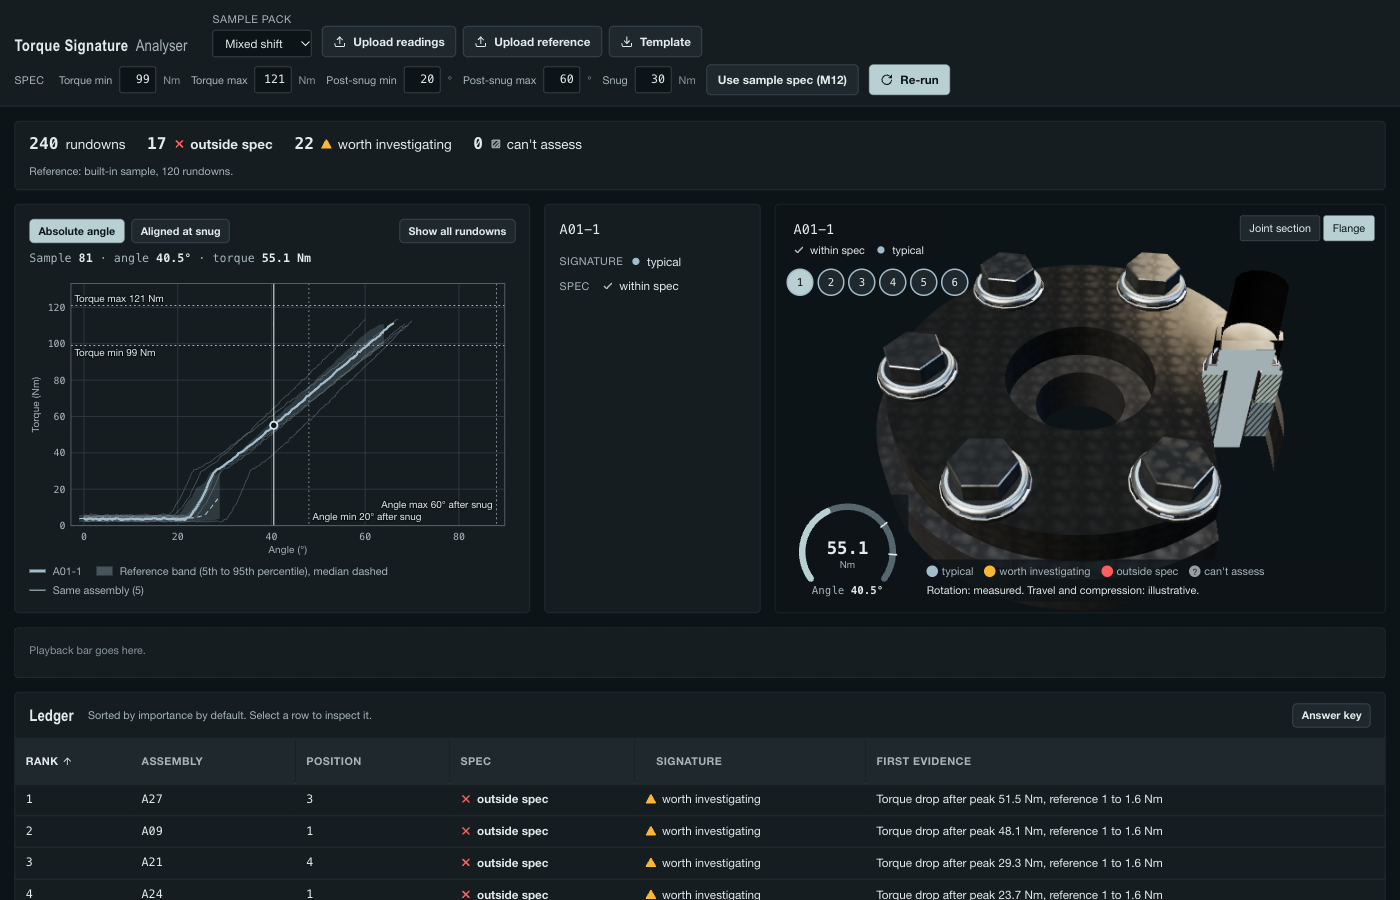
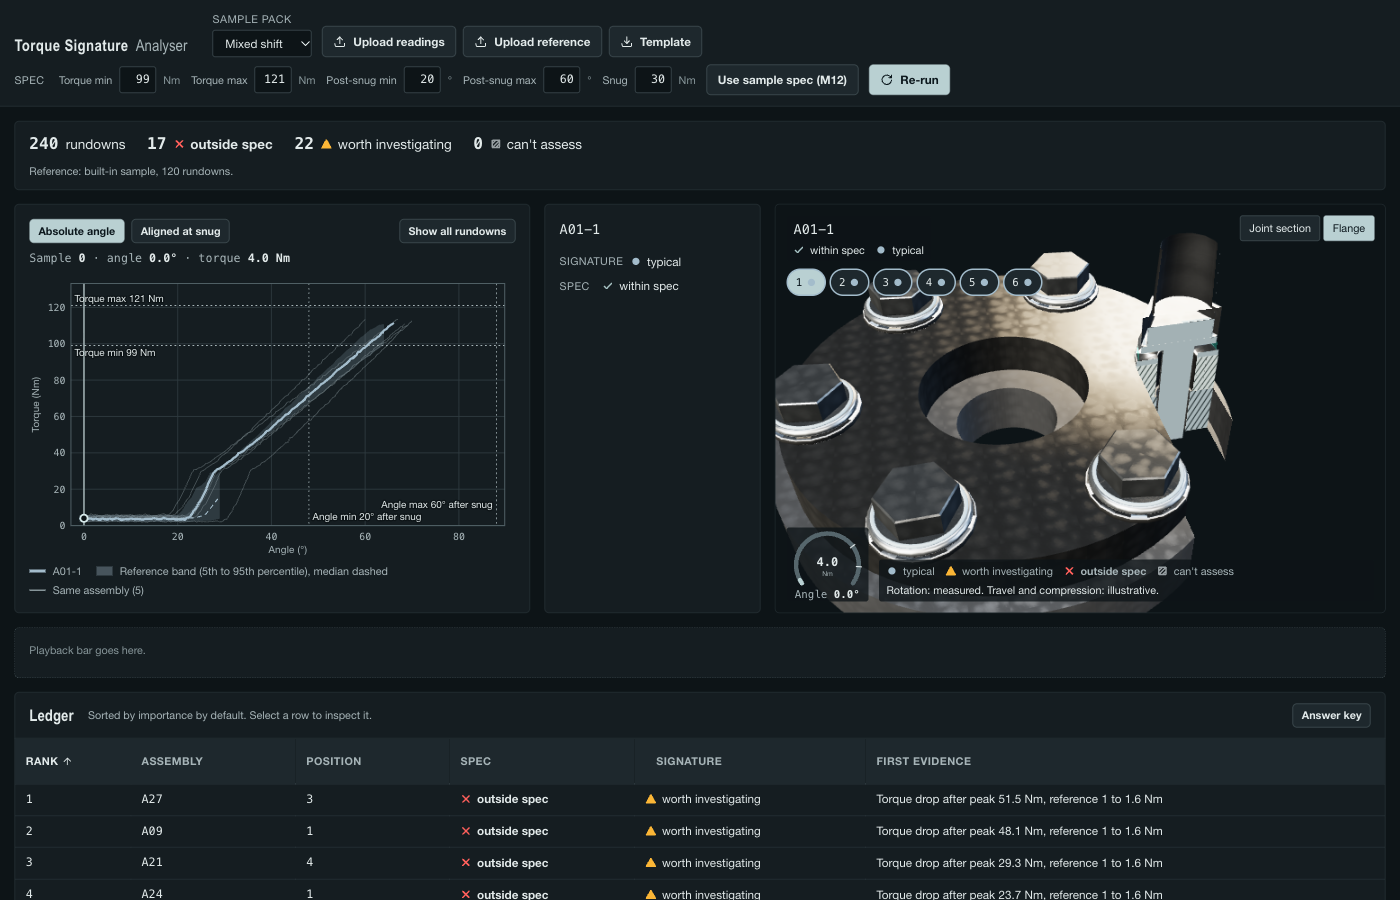
fix(torque): R15 visible gap, section composition, reduced motion, status glyphs

Changed region(s): [[0.5529, 0.2489, 0.9214, 0.6844], [0.0921, 0.28, 0.215, 0.3111]]

diff --git a/apps/torque-signature-analyser/web/src/scene/JointScene.jsx b/apps/torque-signature-analyser/web/src/scene/JointScene.jsx
@@ -7,7 +7,23 @@ import Flange, { FLANGE, slotAngle, slotPosition } from './Flange.jsx';
 import CameraRig from './CameraRig.jsx';
 import Overlay from './Overlay.jsx';
 import { createMaterials, tokenColor } from './materials.js';
-import { boltSlots, jointPose, statusKind, travelAt } from './kinematics.js';
+import { boltSlots, jointPose, statusKind } from './kinematics.js';
+
+// R15: starting head-to-washer gap is 30% of the head height; compression cap is 10% of the top plate.
+const GAP_MAX = 0.3 * 0.95;
+const MAX_COMPRESSION = 0.1 * FLANGE.topT;
+
+function useReducedMotion() {
+  const [reduced, setReduced] = useState(() => window.matchMedia?.('(prefers-reduced-motion: reduce)').matches ?? false);
+  useEffect(() => {
+    const mq = window.matchMedia?.('(prefers-reduced-motion: reduce)');
+    if (!mq) return undefined;
+    const on = () => setReduced(mq.matches);
+    mq.addEventListener('change', on);
+    return () => mq.removeEventListener('change', on);
+  }, []);
+  return reduced;
+}
 
 function hasWebGL() {
   try {
@@ -31,12 +47,13 @@ function cutPlanes(slot) {
   return { single: [A], box: [A, B1, B2] };
 }
 
-function Scene({ focus, siblings, selected, pose, snugAngle, preset, detail, lit, reducedMotion, onSelect }) {
+function Scene({ focus, siblings, selected, pose, preset, detail, lit, reducedMotion, onSelect }) {
   const { invalidate, gl } = useThree();
   const materials = useMemo(() => createMaterials(cutPlanes(focus)), [focus]);
   const bg = useMemo(() => tokenColor('--color-paper', '#15191c'), []);
   useEffect(() => () => materials.dispose(), [materials]);
   useEffect(() => { gl.localClippingEnabled = true; invalidate(); }, [gl, invalidate]);
+  useEffect(() => () => { document.body.style.cursor = ''; }, []);
   useEffect(() => {
     materials.socket.emissive.copy(lit ? materials.motion : new THREE.Color(0, 0, 0));
     materials.socket.emissiveIntensity = lit ? 0.35 : 0;
@@ -45,7 +62,7 @@ function Scene({ focus, siblings, selected, pose, snugAngle, preset, detail, lit
 
   const compression = pose.compression;
   const topY = FLANGE.baseT + FLANGE.topT - compression;
-  const gapUnits = snugAngle == null ? 0 : (travelAt(snugAngle, snugAngle) - pose.travel) / 10;
+  const gapUnits = pose.gap * GAP_MAX;
   const pick = (id) => (e) => {
     e.stopPropagation();
     if (e.delta < 4) onSelect(id);
@@ -55,20 +72,21 @@ function Scene({ focus, siblings, selected, pose, snugAngle, preset, detail, lit
   return (
     <>
       <color attach="background" args={[bg]} />
-      <ambientLight intensity={0.35} />
+      <ambientLight intensity={0.5} />
       <directionalLight position={[-6, 12, 8]} intensity={1.6} color="#fff2df" />
-      <directionalLight position={[8, 5, -4]} intensity={0.5} color="#aec7df" />
+      <directionalLight position={[8, 5, -4]} intensity={0.9} color="#aec7df" />
+      <directionalLight position={[3, 6, 12]} intensity={1.2} color="#fff6ea" />
       <Environment resolution={256} frames={1}>
         <color attach="background" args={['#0b0d0e']} />
-        <Lightformer form="rect" intensity={9} position={[-5, 4.2, 4.8]} scale={[5.2, 3.9]} color="#fff4e2" />
-        <Lightformer form="rect" intensity={3} position={[6, 1.6, 2]} scale={[3, 5.4]} color="#b4d0ee" />
-        <Lightformer form="rect" intensity={4} position={[2.5, 2.2, -5.5]} scale={[2, 4.6]} color="#ffe2b8" />
-        <Lightformer form="rect" intensity={3} position={[0, 6, 0]} scale={[7.5, 2.2]} color="#e4ecf4" />
+        <Lightformer form="rect" intensity={14} position={[-5, 4.2, 4.8]} scale={[5.2, 3.9]} color="#fff4e2" />
+        <Lightformer form="rect" intensity={5} position={[6, 1.6, 2]} scale={[3, 5.4]} color="#b4d0ee" />
+        <Lightformer form="rect" intensity={7} position={[2.5, 2.2, -5.5]} scale={[2, 4.6]} color="#ffe2b8" />
+        <Lightformer form="rect" intensity={5} position={[0, 6, 0]} scale={[7.5, 2.2]} color="#e4ecf4" />
       </Environment>
 
       <Flange materials={materials} squash={compression} focus={focus} />
 
-      {siblings.map(({ slot, rundown, kind }) => {
+      {(preset === 'flange' || focus == null) && siblings.map(({ slot, rundown, kind }) => {
         const last = (rundown.curve?.angle?.[rundown.curve.angle.length - 1] ?? 0) * (Math.PI / 180);
         return (
           <group key={rundown.id} position={slotPosition(slot).setY(topY + WASHER.thickness)} rotation={[0, -slotAngle(slot), 0]}>
@@ -81,6 +99,11 @@ function Scene({ focus, siblings, selected, pose, snugAngle, preset, detail, lit
       {focus != null && selected && (
         <group position={slotPosition(focus).setY(topY)} rotation={[0, -slotAngle(focus), 0]}>
           <Washer materials={materials} cut detail={detail} />
+          {gapUnits > 0.01 && (
+            <mesh material={materials.gapMat} position={[0, WASHER.thickness + gapUnits / 2, 0]}>
+              <cylinderGeometry args={[1.3, 1.3, gapUnits, 40, 1, true]} />
+            </mesh>
+          )}
           <group position={[0, WASHER.thickness + gapUnits, 0]}>
             <Bolt materials={materials} status={statusKind(selected)} rotation={-pose.rotationRad} cut detail={detail} showSocket lit={lit} />
           </group>
@@ -97,7 +120,7 @@ function JointView({ result, selected, cursor, onSelect }) {
   const [compact, setCompact] = useState(false);
   const [preset, setPreset] = useState('section');
   const [lit, setLit] = useState(false);
-  const reducedMotion = useMemo(() => window.matchMedia?.('(prefers-reduced-motion: reduce)').matches ?? false, []);
+  const reducedMotion = useReducedMotion();
 
   useEffect(() => {
     const el = box.current;
@@ -110,12 +133,14 @@ function JointView({ result, selected, cursor, onSelect }) {
   // Sea-glass accent only while the cursor is advancing.
   const prev = useRef(cursor);
   useEffect(() => {
-    if (prev.current === cursor) return undefined;
+    const advanced = cursor > prev.current;
     prev.current = cursor;
+    if (reducedMotion) { setLit(false); return undefined; }
+    if (!advanced) return undefined;
     setLit(true);
     const t = setTimeout(() => setLit(false), 220);
     return () => clearTimeout(t);
-  }, [cursor]);
+  }, [cursor, reducedMotion]);
 
   const rundowns = result?.rundowns ?? [];
   const { slots, overflow, focus } = useMemo(() => {
@@ -129,7 +154,7 @@ function JointView({ result, selected, cursor, onSelect }) {
   const torqueMax = spec?.torque_max_nm ?? Math.max(1, ...rundowns.map((r) => r.features?.final_torque ?? 0));
   const snug = selected?.features?.snug_angle ?? null;
   const pose = useMemo(
-    () => jointPose(selected?.curve, cursor, snug, { torqueMax, maxCompression: 0.04 * FLANGE.topT }),
+    () => jointPose(selected?.curve, cursor, snug, { torqueMax, maxCompression: MAX_COMPRESSION }),
     [selected, cursor, snug, torqueMax],
   );
   const detail = !compact && preset === 'section' && focus != null ? 'full' : 'simple';
@@ -149,7 +174,6 @@ function JointView({ result, selected, cursor, onSelect }) {
           siblings={slots.filter((s) => s.slot !== focus)}
           selected={selected}
           pose={pose}
-          snugAngle={snug}
           preset={preset}
           detail={detail}
           lit={lit}

diff --git a/apps/torque-signature-analyser/web/src/scene/materials.js b/apps/torque-signature-analyser/web/src/scene/materials.js
@@ -18,7 +18,10 @@ export function tokenColor(name, fallback = '#888888') {
 }
 
 /** Roughness variation (MengTo metal step 4): smears, two scratch angles and fine grain. Green channel is read. */
+let roughCache = null;
+let hatchCache = null;
 function roughnessTexture(seed = 7, size = 256) {
+  if (roughCache) return roughCache;
   const c = document.createElement('canvas');
   c.width = c.height = size;
   const g = c.getContext('2d');
@@ -52,6 +55,7 @@ function roughnessTexture(seed = 7, size = 256) {
   g.putImageData(img, 0, 0);
   const t = new THREE.CanvasTexture(c);
   t.wrapS = t.wrapT = THREE.RepeatWrapping;
+  roughCache = t;
   return t;
 }
 
@@ -83,8 +87,12 @@ const F0 = (r, g, b) => new THREE.Color().setRGB(r, g, b, THREE.LinearSRGBColorS
 export function createMaterials(cut) {
   const rough = roughnessTexture();
   const steelF0 = F0(0.56, 0.57, 0.58);
-  const hatch = hatchTexture(tokenColor('--color-alu', '#bbb').multiplyScalar(0.7), tokenColor('--color-surface', '#222'));
-  const hatchDark = hatchTexture(tokenColor('--color-steel', '#99a').multiplyScalar(0.45), tokenColor('--color-surface', '#222'));
+  hatchCache ??= {
+    top: hatchTexture(tokenColor('--color-alu', '#bbb').multiplyScalar(0.8), tokenColor('--color-surface', '#222')),
+    base: hatchTexture(tokenColor('--color-steel', '#99a').multiplyScalar(0.6), tokenColor('--color-surface', '#222')),
+  };
+  const hatch = hatchCache.top;
+  const hatchDark = hatchCache.base;
   const single = cut?.single ?? [];
   const box = cut?.box ?? [];
 
@@ -94,15 +102,17 @@ export function createMaterials(cut) {
   const washer = new THREE.MeshPhysicalMaterial({ color: steelF0, metalness: 1, roughness: 0.3, roughnessMap: rough, anisotropy: 0.8, clippingPlanes: single });
   const washerFree = washer.clone();
   washerFree.clippingPlanes = null;
-  const socket = new THREE.MeshStandardMaterial({ color: F0(0.3, 0.31, 0.33), metalness: 1, roughness: 0.22, roughnessMap: rough, side: THREE.DoubleSide, clippingPlanes: single, emissive: new THREE.Color(0, 0, 0) });
+  const socket = new THREE.MeshStandardMaterial({ color: F0(0.62, 0.64, 0.67), metalness: 1, roughness: 0.3, roughnessMap: rough, side: THREE.DoubleSide, clippingPlanes: single, emissive: new THREE.Color(0, 0, 0) });
   const plateTop = new THREE.MeshStandardMaterial({ color: steelF0, metalness: 1, roughness: 0.34, roughnessMap: rough, side: THREE.DoubleSide, clippingPlanes: box, clipIntersection: true });
-  const plateBase = new THREE.MeshStandardMaterial({ color: F0(0.24, 0.25, 0.27), metalness: 0.9, roughness: 0.62, roughnessMap: rough, side: THREE.DoubleSide, clippingPlanes: box, clipIntersection: true });
-  const hub = new THREE.MeshStandardMaterial({ color: F0(0.2, 0.21, 0.23), metalness: 0.9, roughness: 0.7, roughnessMap: rough });
+  const plateBase = new THREE.MeshStandardMaterial({ color: F0(0.42, 0.44, 0.47), metalness: 0.9, roughness: 0.55, roughnessMap: rough, side: THREE.DoubleSide, clippingPlanes: box, clipIntersection: true });
+  const hub = new THREE.MeshStandardMaterial({ color: F0(0.34, 0.35, 0.38), metalness: 0.9, roughness: 0.6, roughnessMap: rough });
   const capTop = new THREE.MeshStandardMaterial({ map: hatch, metalness: 0, roughness: 0.9 });
   const capBase = new THREE.MeshStandardMaterial({ map: hatchDark, metalness: 0, roughness: 0.9 });
-  const capBolt = new THREE.MeshStandardMaterial({ color: tokenColor('--color-steel', '#aab'), metalness: 0, roughness: 0.8 });
+  const capBolt = new THREE.MeshStandardMaterial({ color: tokenColor('--color-steel', '#aab').multiplyScalar(0.55), metalness: 0, roughness: 0.8 });
   const edge = new THREE.MeshBasicMaterial({ color: tokenColor('--color-motion', '#3df5d2'), toneMapped: false, transparent: true, opacity: 0.9, clippingPlanes: single });
 
+  const gapMat = new THREE.MeshBasicMaterial({ color: tokenColor('--color-motion', '#3df5d2'), transparent: true, opacity: 0.3, depthWrite: false, side: THREE.DoubleSide, toneMapped: false, clippingPlanes: single });
+  const mark = new THREE.MeshBasicMaterial({ color: tokenColor('--color-text', '#eee'), toneMapped: false, clippingPlanes: single });
   const status = {
     typical: tokenColor('--color-steel', '#99a'),
     investigate: tokenColor('--color-amber', '#e0a030'),
@@ -113,6 +123,6 @@ export function createMaterials(cut) {
   const ringCut = Object.fromEntries(Object.entries(ring).map(([k, m]) => { const c = m.clone(); c.clippingPlanes = single; return [k, c]; }));
   const motion = tokenColor('--color-motion', '#3df5d2');
 
-  const all = [zinc, zincFree, washer, washerFree, socket, plateTop, plateBase, hub, capTop, capBase, capBolt, edge, hatch, hatchDark, rough, ...Object.values(ring), ...Object.values(ringCut)];
-  return { zinc, zincFree, washer, washerFree, socket, plateTop, plateBase, hub, capTop, capBase, capBolt, edge, ring, ringCut, motion, dispose: () => all.forEach((m) => m.dispose()) };
+  const all = [zinc, zincFree, washer, washerFree, socket, plateTop, plateBase, hub, capTop, capBase, capBolt, edge, gapMat, mark, ...Object.values(ring), ...Object.values(ringCut)];
+  return { zinc, zincFree, washer, washerFree, socket, plateTop, plateBase, hub, capTop, capBase, capBolt, edge, gapMat, mark, ring, ringCut, motion, dispose: () => all.forEach((m) => m.dispose()) };
 }

diff --git a/apps/torque-signature-analyser/web/src/app.css b/apps/torque-signature-analyser/web/src/app.css
@@ -217,7 +217,7 @@ button, input, select { font: inherit; color: inherit; }
 .btn-mini:active { background: var(--color-surface); }
 .btn-mini[aria-pressed="true"] { background: var(--color-alu); color: var(--color-on-light); border-color: var(--color-alu); }
 .joint-slots { list-style: none; display: flex; gap: var(--space-2xs); padding: 0; margin: 0; }
-.slot-chip { font: inherit; font-size: var(--text-xs); font-family: var(--font-mono); width: 1.9rem; height: 1.9rem; border-radius: 50%; background: var(--color-surface-2); color: var(--color-text); border: 2px solid var(--color-steel); cursor: pointer; }
+.slot-chip { font: inherit; font-size: var(--text-xs); font-family: var(--font-mono); display: inline-flex; align-items: center; gap: 0.25rem; height: 1.9rem; padding: 0 0.55rem; border-radius: 1rem; background: var(--color-surface-2); color: var(--color-text); border: 2px solid var(--color-steel); cursor: pointer; }
 .slot-chip:hover { background: var(--color-surface-3); }
 .slot-chip[aria-pressed="true"] { background: var(--color-alu); color: var(--color-on-light); }
 .slot-chip-investigate { border-color: var(--color-amber); }
@@ -237,10 +237,12 @@ button, input, select { font: inherit; color: inherit; }
 .joint-legend-wrap { flex: 1; min-width: 12rem; display: grid; gap: var(--space-2xs); background: color-mix(in oklch, var(--color-paper) 78%, transparent); border-radius: var(--radius-sm); padding: var(--space-2xs) var(--space-xs); }
 .joint-legend { list-style: none; display: flex; flex-wrap: wrap; gap: var(--space-2xs) var(--space-sm); padding: 0; margin: 0; font-size: var(--text-xs); color: var(--color-muted); }
 .joint-legend li { display: inline-flex; align-items: center; gap: var(--space-2xs); }
-.sw { display: inline-grid; place-items: center; width: 0.8rem; height: 0.8rem; border-radius: 50%; font-style: normal; font-size: 0.6rem; color: var(--color-on-light); }
-.sw-typical { background: var(--color-steel); }
-.sw-investigate { background: var(--color-amber); }
-.sw-outside { background: var(--color-outside); }
-.sw-cant_assess { background: var(--color-hatch); }
 .joint-caption { margin: 0; font-size: var(--text-xs); color: var(--color-text); }
 .joint-fallback { margin: var(--space-md); padding: var(--space-lg); border: 1px solid var(--color-rule-strong); border-radius: var(--radius-md); color: var(--color-muted); font-size: var(--text-sm); }
+
+.slot-chip .status-label { display: none; }
+.slot-chip .status { display: inline-flex; }
+.chip-glyph { display: inline-flex; }
+.joint-legend .status-label { font-size: var(--text-xs); color: var(--color-muted); }
+.gauge { width: 5.2rem; }
+.joint-gauge { padding: 0 var(--space-2xs); }

diff --git a/apps/torque-signature-analyser/web/tests/kinematics.test.js b/apps/torque-signature-analyser/web/tests/kinematics.test.js
@@ -3,7 +3,7 @@ import assert from 'node:assert/strict';
 import { jointPose, boltSlots, statusKind } from '../src/scene/kinematics.js';
 
 const curve = { angle: [0, 100, 200, 300, 400], torque: [2, 10, 30, 80, 110] };
-const opts = { torqueMax: 120, maxCompression: 0.08 };
+const opts = { torqueMax: 120, maxCompression: 0.14 };
 
 test('rotation equals the measured angle in radians', () => {
   const p = jointPose(curve, 3, 200, opts);
@@ -22,9 +22,9 @@ test('compression is 0 before snug and bounded after', () => {
   assert.equal(jointPose(curve, 1, 200, opts).compression, 0);
   assert.equal(jointPose(curve, 2, 200, opts).compression, 0);
   const c = jointPose(curve, 3, 200, opts).compression;
-  assert.ok(Math.abs(c - (80 / 120) * 0.08) < 1e-12);
+  assert.ok(Math.abs(c - (80 / 120) * 0.14) < 1e-12);
   const over = jointPose({ angle: [0, 300], torque: [0, 999] }, 1, 100, opts).compression;
-  assert.equal(over, 0.08);
+  assert.equal(over, 0.14);
 });
 
 test('null snug: rotation only, no travel or compression', () => {
@@ -64,4 +64,12 @@ test('statusKind priority: outside, investigate, cant_assess, typical', () => {
   assert.equal(statusKind({ spec_result: 'within', signature: 'investigate' }), 'investigate');
   assert.equal(statusKind({ spec_result: 'within', signature: 'cant_assess' }), 'cant_assess');
   assert.equal(statusKind({ spec_result: 'not_supplied', signature: 'typical' }), 'typical');
+});
+
+test('visual gap is a fraction: 1 at angle 0, linear in travel, 0 at and after snug, 0 with no snug', () => {
+  assert.equal(jointPose(curve, 0, 200, opts).gap, 1);
+  assert.ok(Math.abs(jointPose(curve, 1, 200, opts).gap - 0.5) < 1e-12);
+  assert.equal(jointPose(curve, 2, 200, opts).gap, 0);
+  assert.equal(jointPose(curve, 4, 200, opts).gap, 0);
+  assert.equal(jointPose(curve, 0, null, opts).gap, 0);
 });

diff --git a/apps/torque-signature-analyser/web/src/App.jsx b/apps/torque-signature-analyser/web/src/App.jsx
@@ -1,10 +1,10 @@
-import { useCallback, useEffect, useReducer, useRef, useState } from 'react';
+import { lazy, Suspense, useCallback, useEffect, useReducer, useRef, useState } from 'react';
 import Toolbar from './components/Toolbar.jsx';
 import CountStrip from './components/CountStrip.jsx';
 import Ledger from './components/Ledger.jsx';
 import TorqueGraph from './components/TorqueGraph.jsx';
 import EvidencePanel from './components/EvidencePanel.jsx';
-import JointScene from './scene/JointScene.jsx';
+const JointScene = lazy(() => import('./scene/JointScene.jsx'));
 import { initialState, selectionReducer, selectedRundown, parseSpecInputs, specToInputs, SAMPLE_SPEC, EMPTY_SPEC } from './state.js';
 import { listSamples, analyseSample, analyseUpload } from './api.js';
 
@@ -128,12 +128,14 @@ export default function App() {
             </aside>
           </div>
           <div className="slot slot-3d" data-slot="3d">
-            <JointScene
-              result={state.result}
-              selected={selected}
-              cursor={state.cursor}
-              onSelect={(id) => dispatch({ type: 'SELECT', rundownId: id })}
-            />
+            <Suspense fallback={<p className="slot-empty">Loading 3D view.</p>}>
+              <JointScene
+                result={state.result}
+                selected={selected}
+                cursor={state.cursor}
+                onSelect={(id) => dispatch({ type: 'SELECT', rundownId: id })}
+              />
+            </Suspense>
           </div>
           <div className="slot slot-playback" data-slot="playback">
             <p className="slot-empty">Playback bar goes here.</p>

diff --git a/apps/torque-signature-analyser/web/src/scene/Overlay.jsx b/apps/torque-signature-analyser/web/src/scene/Overlay.jsx
@@ -55,7 +55,8 @@ export default function Overlay({ selected, pose, torqueMax, spec, preset, onPre
           {slots.map(({ slot, rundown, kind }) => (
             <li key={rundown.id}>
               <button type="button" className={`slot-chip slot-chip-${kind}`} aria-pressed={rundown.id === selectedId} aria-label={`Bolt ${slot + 1}, ${KIND_LABEL[kind]}`} onClick={() => onSelect(rundown.id)}>
-                <span aria-hidden="true">{slot + 1}{kind === 'cant_assess' ? '?' : ''}</span>
+                <span aria-hidden="true" className="chip-num">{slot + 1}</span>
+                <span aria-hidden="true" className="chip-glyph"><StatusMark kind={kind} /></span>
               </button>
             </li>
           ))}
@@ -71,7 +72,7 @@ export default function Overlay({ selected, pose, torqueMax, spec, preset, onPre
         <div className="joint-legend-wrap">
           <ul className="joint-legend" aria-label="Head ring colours">
             {KINDS.map((k) => (
-              <li key={k}><i className={`sw sw-${k}`} aria-hidden="true">{k === 'cant_assess' ? '?' : ''}</i>{KIND_LABEL[k]}</li>
+              <li key={k}><StatusMark kind={k} /></li>
             ))}
           </ul>
           <p className="joint-caption">Rotation: measured. Travel and compression: illustrative.</p>

diff --git a/apps/torque-signature-analyser/web/src/scene/CameraRig.jsx b/apps/torque-signature-analyser/web/src/scene/CameraRig.jsx
@@ -11,9 +11,17 @@ export function presetPose(preset, focus) {
     const R = new THREE.Vector3(Math.cos(a), 0, Math.sin(a));
     const T = new THREE.Vector3(-Math.sin(a), 0, Math.cos(a));
     return {
-      target: P.clone().setY(3.2),
-      position: P.clone().addScaledVector(T, 20).addScaledVector(R, 4).setY(7.6),
+      target: P.clone().setY(3.9),
+      position: P.clone().addScaledVector(T, 11.5).addScaledVector(R, 3.4).setY(6.4),
     };
+  }
+  if (focus != null) {
+    // View from the cut side, aimed between the hub and the selected bolt so it sits inside the frame.
+    const a = slotAngle(focus);
+    const R = new THREE.Vector3(Math.cos(a), 0, Math.sin(a));
+    const T = new THREE.Vector3(-Math.sin(a), 0, Math.cos(a));
+    const target = R.clone().multiplyScalar(2.4).setY(1.8);
+    return { target, position: target.clone().addScaledVector(T, 17).addScaledVector(R, -4).setY(17) };
   }
   return { target: new THREE.Vector3(0, 1.5, 0), position: new THREE.Vector3(0, 20, 18) };
 }

diff --git a/apps/torque-signature-analyser/web/src/scene/kinematics.js b/apps/torque-signature-analyser/web/src/scene/kinematics.js
@@ -22,10 +22,12 @@ export function jointPose(curve, cursor, snugAngle, opts = {}) {
   const angle = curve?.angle?.[i] ?? 0;
   const torque = curve?.torque?.[i] ?? 0;
   const rotationRad = (angle * Math.PI) / 180;
-  if (snugAngle == null) return { rotationRad, travel: 0, compression: 0, angle, torque };
+  if (snugAngle == null) return { rotationRad, travel: 0, gap: 0, compression: 0, angle, torque };
   const travel = travelAt(angle, snugAngle, pitch, exaggeration);
+  // R15: visual gap fraction, 1 at angle 0 shrinking linearly with travel to 0 at snug. The scene scales it.
+  const gap = snugAngle > 0 ? 1 - clamp(angle, 0, snugAngle) / snugAngle : 0;
   const compression = angle > snugAngle && torqueMax > 0 ? clamp(torque / torqueMax, 0, 1) * maxCompression : 0;
-  return { rotationRad, travel, compression, angle, torque };
+  return { rotationRad, travel, gap, compression, angle, torque };
 }
 
 /**

diff --git a/apps/torque-signature-analyser/web/src/scene/Bolt.jsx b/apps/torque-signature-analyser/web/src/scene/Bolt.jsx
@@ -134,6 +134,13 @@ export default function Bolt({ materials, status, rotation = 0, cut = false, det
         <mesh geometry={hex} material={zinc} />
         <mesh geometry={shank} material={zinc} />
         {thread && <mesh geometry={thread} material={zinc} />}
+        {cut && (
+          <>
+            {/* Index marks: painted stripe across the hex top and a tick on the flange, so turning reads at a glance. */}
+            <mesh geometry={plane} material={materials.mark} position={[0.5, BOLT.flangeT + BOLT.hexH + 0.012, 0]} rotation={[-Math.PI / 2, 0, 0]} scale={[0.95, 0.14, 1]} />
+            <mesh geometry={plane} material={materials.mark} position={[1.17, BOLT.flangeT + 0.013, 0]} rotation={[-Math.PI / 2, 0, 0]} scale={[0.2, 0.1, 1]} />
+          </>
+        )}
         {sock && (
           <>
             <mesh geometry={sock.ring} material={materials.socket} />
